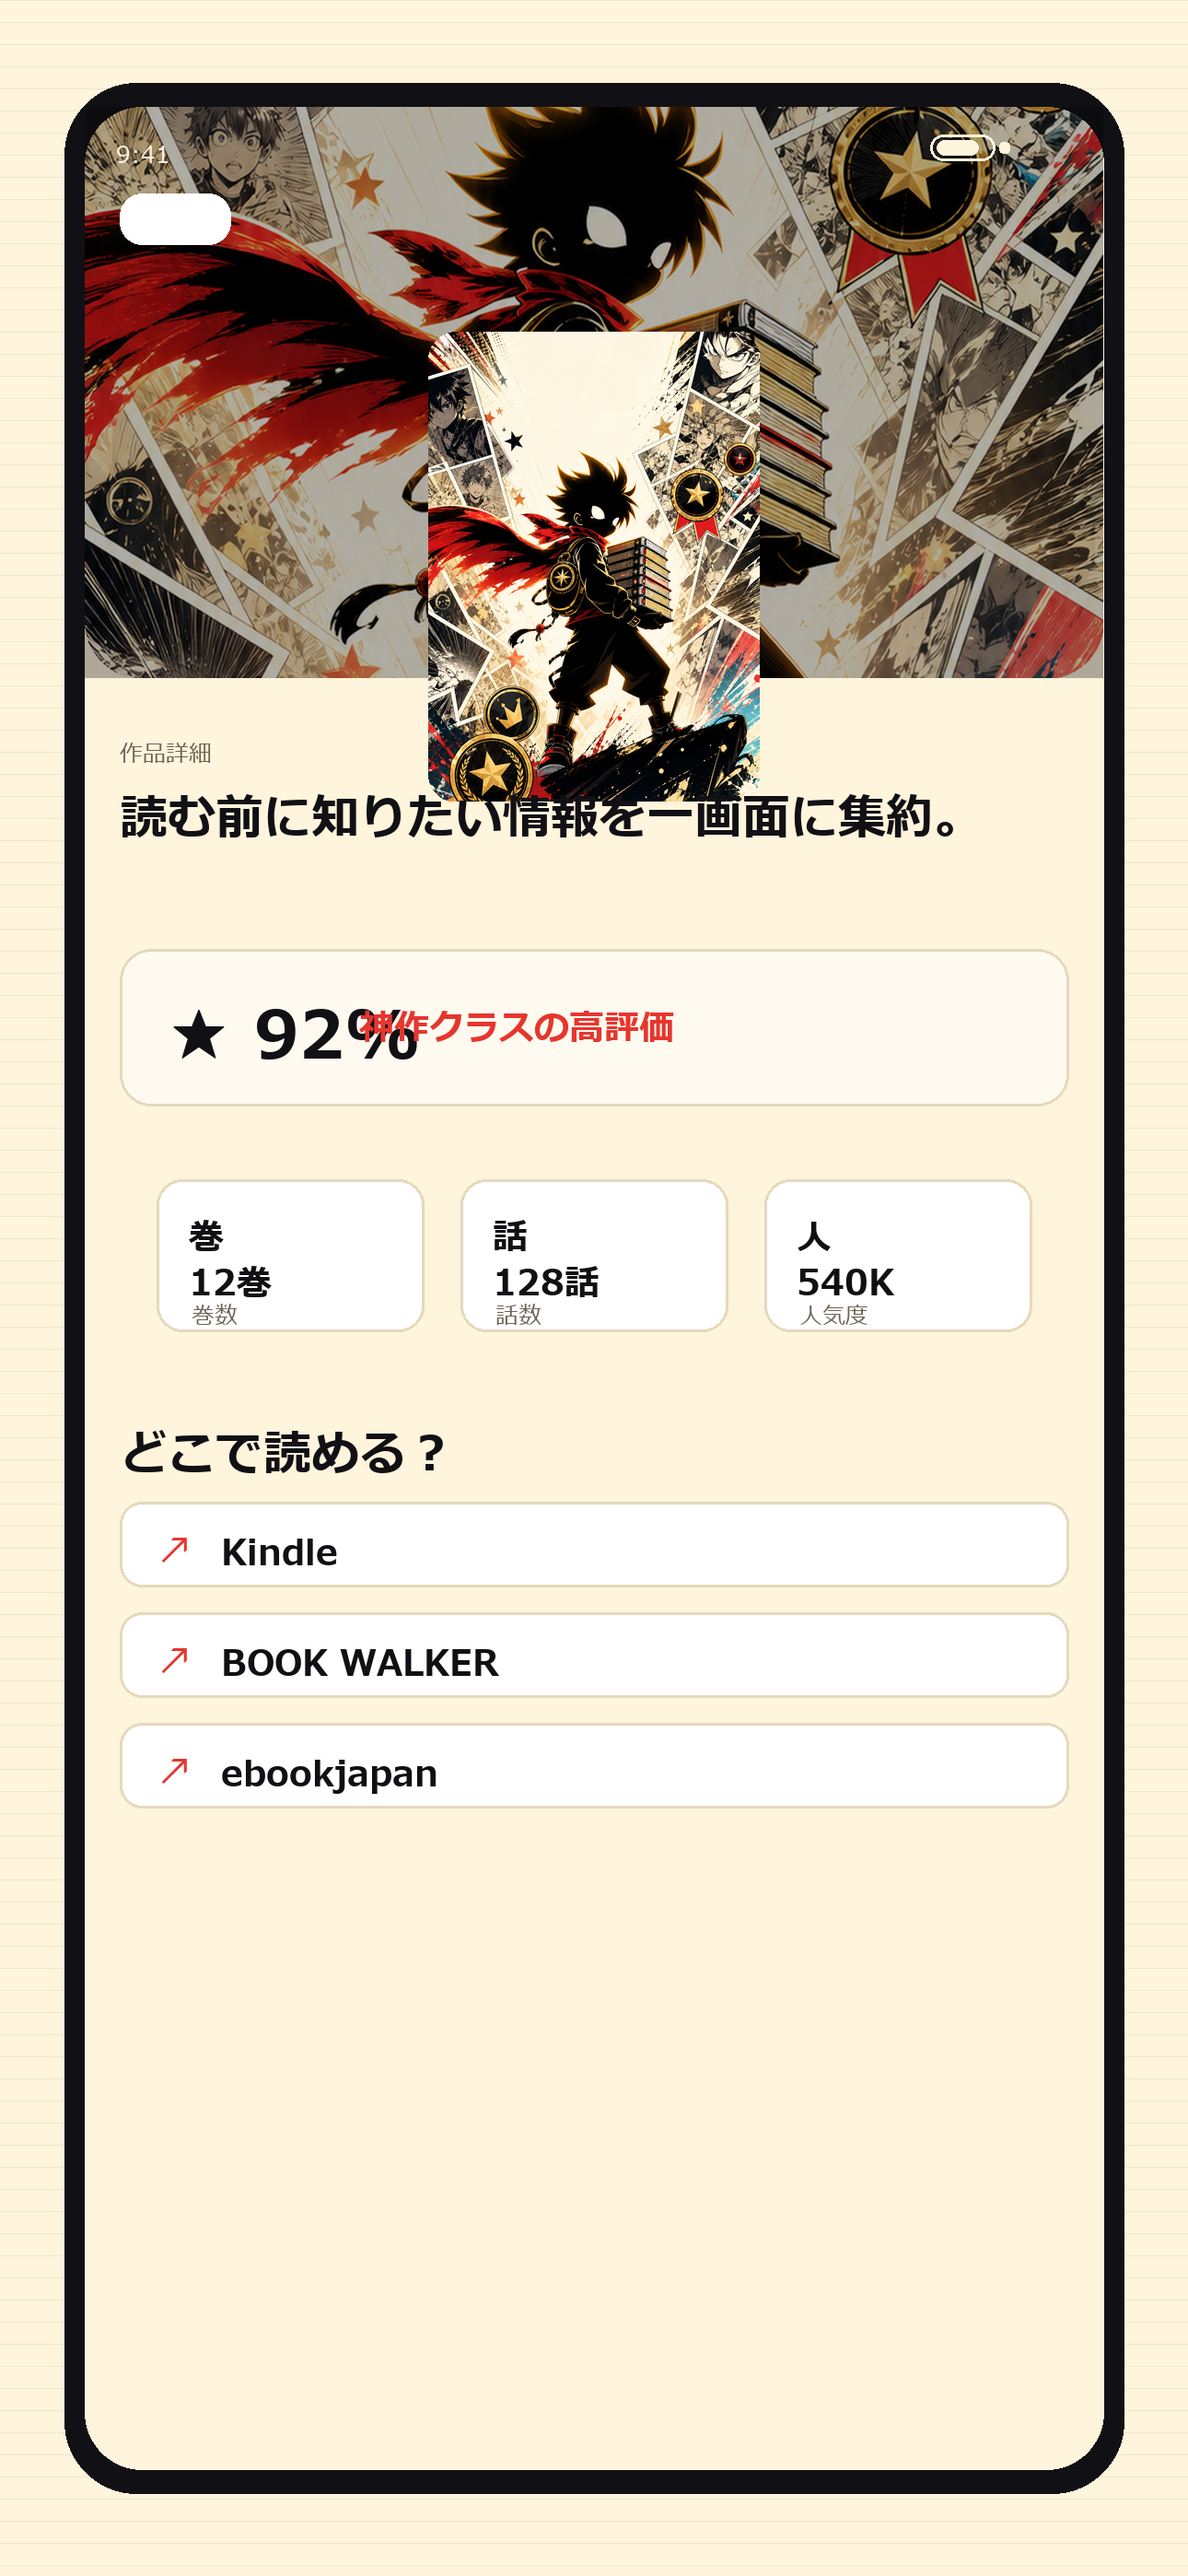
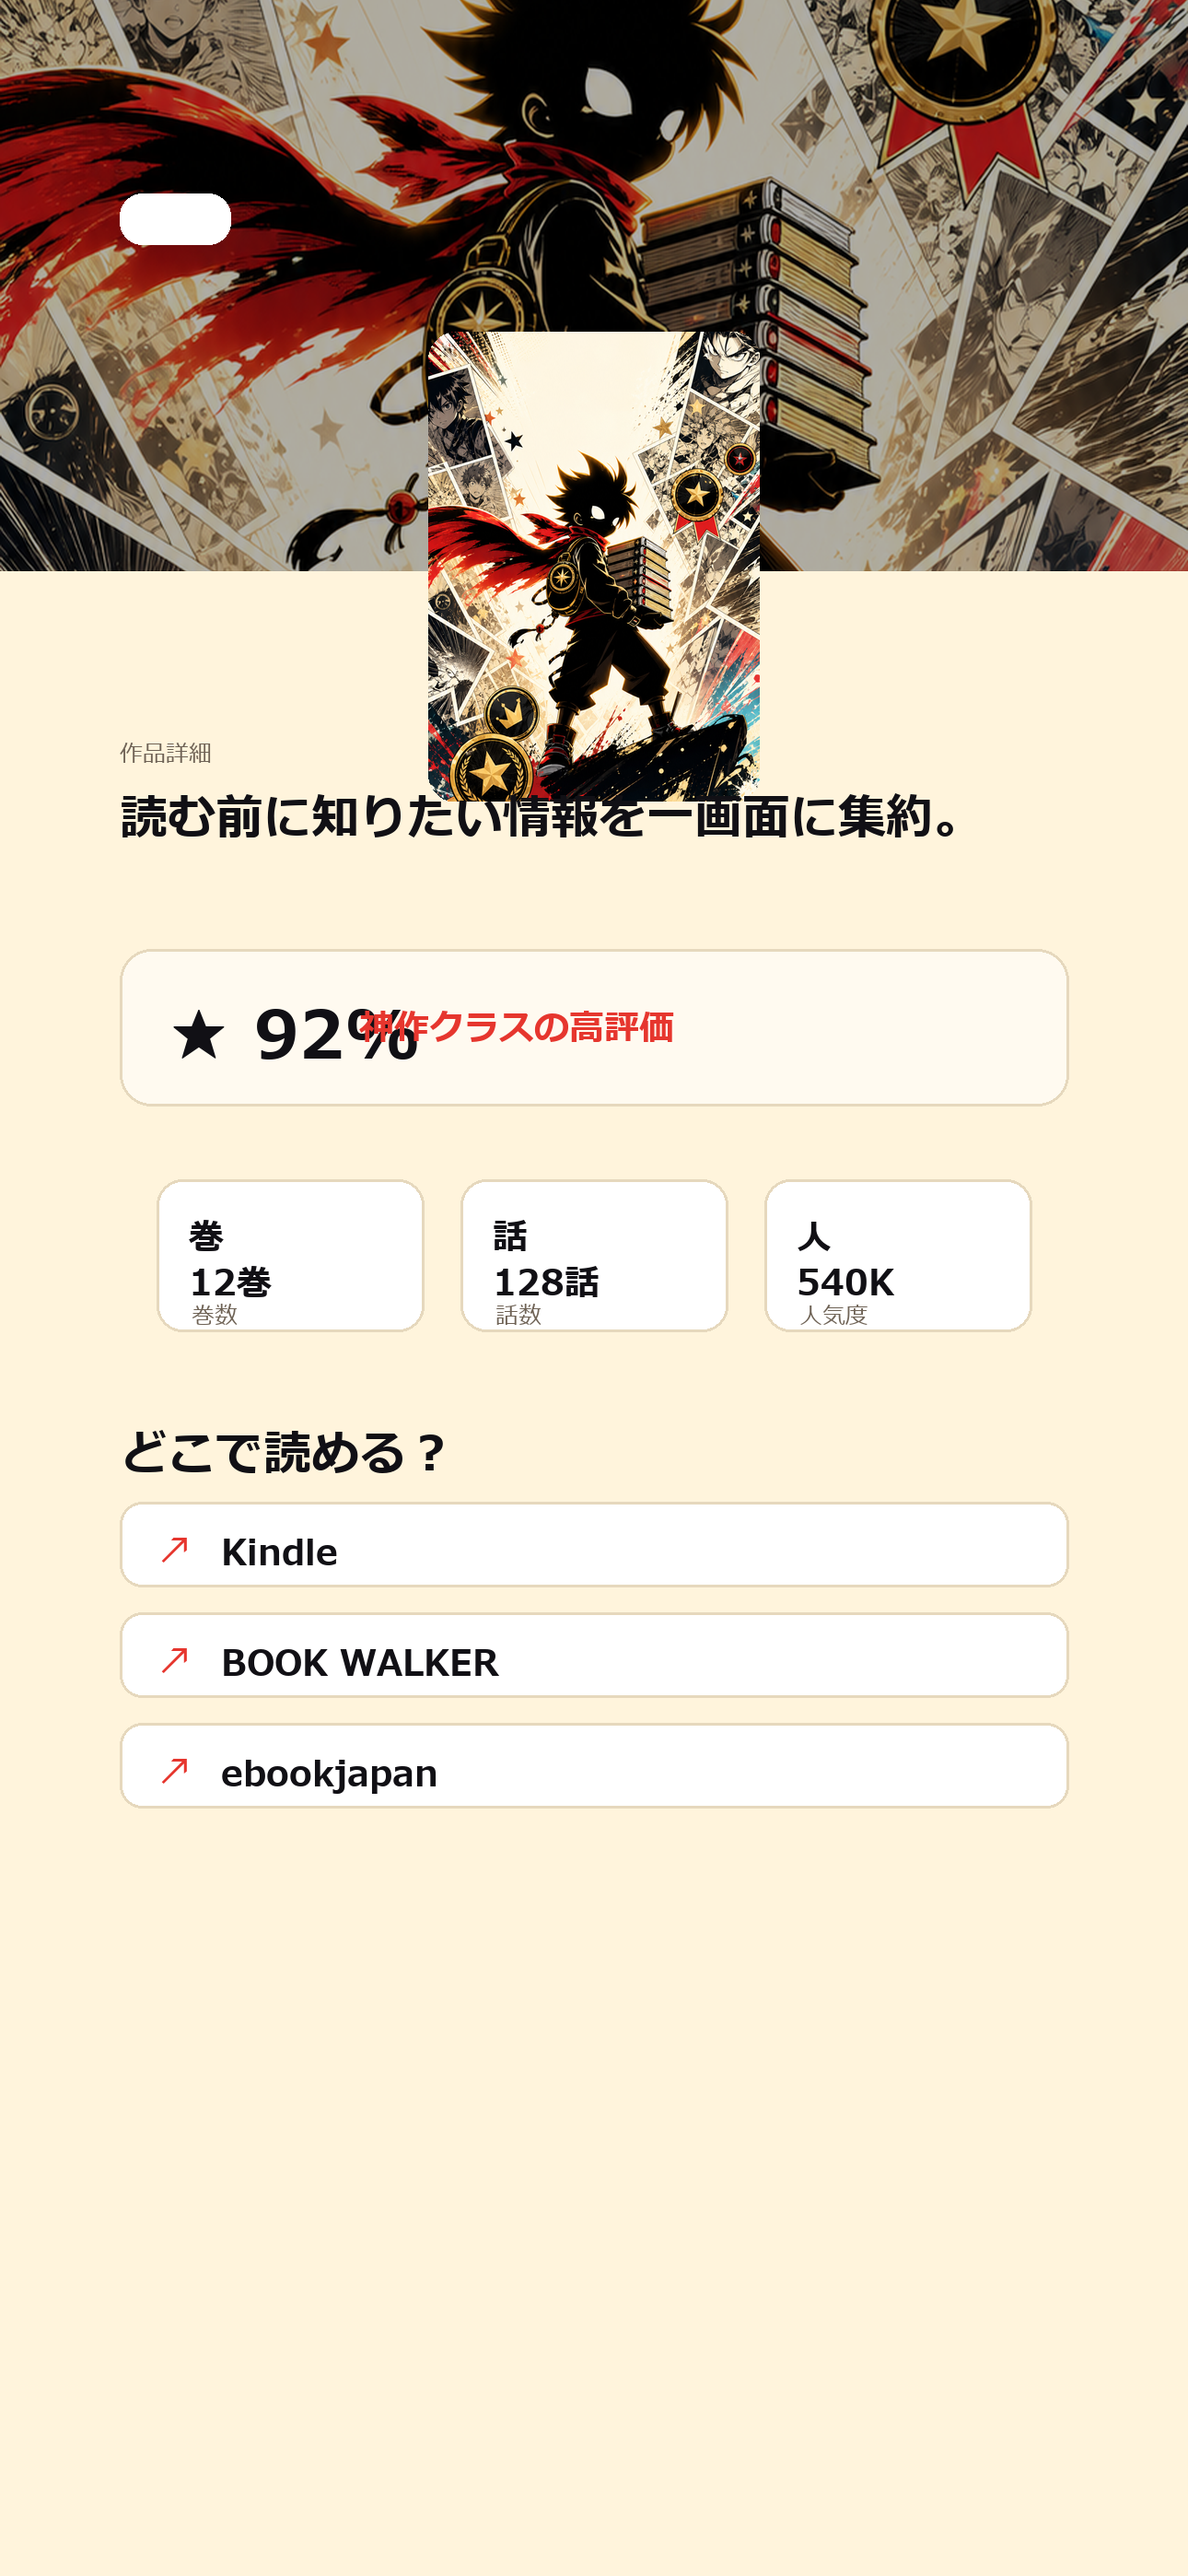
Fix MangaNavi ads tracking and screenshots

Changed region(s): [[0.0, 0.0, 1.0, 0.9957]]

diff --git a/iosApp/iosApp/ContentView.swift b/iosApp/iosApp/ContentView.swift
@@ -14,59 +14,63 @@ private struct MangaNaviHomeView: View {
     private let genres = ["バトル", "ミステリー", "日常", "SF", "恋愛", "歴史"]
 
     var body: some View {
-        TabView(selection: $selectedTab) {
-            NavigationStack {
-                ScrollView(showsIndicators: false) {
-                    VStack(alignment: .leading, spacing: 24) {
-                        HeroPanel(featured: picks[0]) {
-                            selectedManga = picks[0]
-                        }
+        VStack(spacing: 0) {
+            TabView(selection: $selectedTab) {
+                NavigationStack {
+                    ScrollView(showsIndicators: false) {
+                        VStack(alignment: .leading, spacing: 24) {
+                            HeroPanel(featured: picks[0]) {
+                                selectedManga = picks[0]
+                            }
 
-                        SectionHeader(title: "今日の注目作", action: "更新")
+                            SectionHeader(title: "今日の注目作", action: "更新")
 
-                        LazyVGrid(columns: columns, spacing: 14) {
-                            ForEach(picks) { manga in
-                                MangaCard(manga: manga)
-                                    .onTapGesture {
-                                        selectedManga = manga
-                                    }
+                            LazyVGrid(columns: columns, spacing: 14) {
+                                ForEach(picks) { manga in
+                                    MangaCard(manga: manga)
+                                        .onTapGesture {
+                                            selectedManga = manga
+                                        }
+                                }
+                            }
+
+                            SectionHeader(title: "ジャンルから探す", action: nil)
+
+                            LazyVGrid(columns: genreColumns, spacing: 10) {
+                                ForEach(genres, id: \.self) { genre in
+                                    GenreChip(title: genre)
+                                }
                             }
                         }
-
-                        SectionHeader(title: "ジャンルから探す", action: nil)
-
-                        LazyVGrid(columns: genreColumns, spacing: 10) {
-                            ForEach(genres, id: \.self) { genre in
-                                GenreChip(title: genre)
-                            }
-                        }
+                        .padding(.horizontal, 20)
+                        .padding(.top, 14)
+                        .padding(.bottom, 28)
                     }
-                    .padding(.horizontal, 20)
-                    .padding(.top, 14)
-                    .padding(.bottom, 28)
+                    .background(AppPalette.paper.ignoresSafeArea())
+                    .navigationTitle("MangaNavi")
+                    .navigationBarTitleDisplayMode(.inline)
                 }
-                .background(AppPalette.paper.ignoresSafeArea())
-                .navigationTitle("MangaNavi")
-                .navigationBarTitleDisplayMode(.inline)
-            }
-            .tabItem {
-                Label("ホーム", systemImage: "book.pages")
-            }
-            .tag(0)
-
-            RankingView(picks: picks, selectedManga: $selectedManga)
                 .tabItem {
-                    Label("ランキング", systemImage: "chart.bar.fill")
+                    Label("ホーム", systemImage: "book.pages")
                 }
-                .tag(1)
+                .tag(0)
 
-            ReadingListView(picks: picks, selectedManga: $selectedManga)
-                .tabItem {
-                    Label("リスト", systemImage: "bookmark.fill")
-                }
-                .tag(2)
+                RankingView(picks: picks, selectedManga: $selectedManga)
+                    .tabItem {
+                        Label("ランキング", systemImage: "chart.bar.fill")
+                    }
+                    .tag(1)
+
+                ReadingListView(picks: picks, selectedManga: $selectedManga)
+                    .tabItem {
+                        Label("リスト", systemImage: "bookmark.fill")
+                    }
+                    .tag(2)
+            }
+            .tint(AppPalette.ink)
+
+            AdMobBannerSlotView(placement: .homeBottom)
         }
-        .tint(AppPalette.ink)
         .sheet(item: $selectedManga) { manga in
             MangaDetailView(manga: manga)
         }

diff --git a/iosApp/iosApp/AdService.swift b/iosApp/iosApp/AdService.swift
@@ -1,0 +1,110 @@
+import AppTrackingTransparency
+import GoogleMobileAds
+import SwiftUI
+import UIKit
+
+enum AdPlacement {
+    case homeBottom
+}
+
+struct AdConfiguration {
+    static let appID = "ca-app-pub-9404799280370656~8948872604"
+    static let primaryBannerUnitID = "ca-app-pub-9404799280370656/2700982853"
+    static let secondaryBannerUnitID = "ca-app-pub-9404799280370656/5009627599"
+    static let tertiaryBannerUnitID = "ca-app-pub-9404799280370656/6705852641"
+
+    static func bannerUnitID(for placement: AdPlacement) -> String {
+        switch placement {
+        case .homeBottom:
+            primaryBannerUnitID
+        }
+    }
+}
+
+@MainActor
+final class AdService: ObservableObject {
+    static let shared = AdService()
+
+    @Published private(set) var isReady = false
+    private var didStart = false
+
+    private init() {}
+
+    func start() async {
+        guard !didStart else { return }
+        didStart = true
+
+        await requestTrackingAuthorizationIfNeeded()
+        await MobileAds.shared.start()
+        isReady = true
+    }
+
+    private func requestTrackingAuthorizationIfNeeded() async {
+        guard #available(iOS 14.5, *),
+              ATTrackingManager.trackingAuthorizationStatus == .notDetermined else {
+            return
+        }
+
+        _ = await withCheckedContinuation { continuation in
+            ATTrackingManager.requestTrackingAuthorization { status in
+                continuation.resume(returning: status)
+            }
+        }
+    }
+}
+
+struct AdMobBannerSlotView: View {
+    let placement: AdPlacement
+    @EnvironmentObject private var adService: AdService
+
+    var body: some View {
+        if adService.isReady {
+            BannerViewContainer(
+                adSize: AdSizeBanner,
+                adUnitID: AdConfiguration.bannerUnitID(for: placement)
+            )
+            .frame(width: AdSizeBanner.size.width, height: AdSizeBanner.size.height)
+            .frame(maxWidth: .infinity)
+            .padding(.top, 6)
+            .background(AppPalette.paper)
+            .accessibilityLabel("広告")
+        }
+    }
+}
+
+private struct BannerViewContainer: UIViewRepresentable {
+    let adSize: AdSize
+    let adUnitID: String
+
+    func makeUIView(context: Context) -> BannerView {
+        let banner = BannerView(adSize: adSize)
+        banner.adUnitID = adUnitID
+        banner.rootViewController = UIApplication.shared.adRootViewController
+        banner.load(Request())
+        return banner
+    }
+
+    func updateUIView(_ banner: BannerView, context: Context) {
+        if banner.adUnitID != adUnitID {
+            banner.adUnitID = adUnitID
+            banner.load(Request())
+        }
+    }
+}
+
+private extension UIApplication {
+    var adRootViewController: UIViewController? {
+        connectedScenes
+            .compactMap { $0 as? UIWindowScene }
+            .flatMap(\.windows)
+            .first { $0.isKeyWindow }?
+            .rootViewController?
+            .topPresentedViewController
+    }
+}
+
+private extension UIViewController {
+    var topPresentedViewController: UIViewController {
+        presentedViewController?.topPresentedViewController ?? self
+    }
+}

diff --git a/iosApp/iosApp/iosAppApp.swift b/iosApp/iosApp/iosAppApp.swift
@@ -2,9 +2,15 @@ import SwiftUI
 
 @main
 struct MangaNaviApp: App {
+    @StateObject private var adService = AdService.shared
+
     var body: some Scene {
         WindowGroup {
             ContentView()
+                .environmentObject(adService)
+                .task {
+                    await adService.start()
+                }
         }
     }
 }

diff --git a/tools/make_ios_screenshots.py b/tools/make_ios_screenshots.py
@@ -1,7 +1,7 @@
 from pathlib import Path
 from PIL import Image, ImageDraw, ImageFont
 
-ROOT = Path(r"C:\Users\Windows\MangaNavi")
+ROOT = Path(__file__).resolve().parents[1]
 OUT = ROOT / "output" / "ios-screenshots"
 OUT.mkdir(parents=True, exist_ok=True)
 
@@ -68,17 +68,12 @@ def base_bg():
 def phone_shell():
     img = base_bg()
     draw = ImageDraw.Draw(img)
-    rounded(draw, (70, 90, W - 70, H - 90), 78, "#111015")
-    rounded(draw, (92, 116, W - 92, H - 116), 62, "#fff4dc")
+    rounded(draw, (0, 0, W, H), 0, "#fff4dc")
     return img
 
 
 def status(draw, dark=False):
-    color = "#fff4dc" if dark else "#111015"
-    write(draw, (126, 150), "9:41", F["small"], color)
-    rounded(draw, (1010, 146, 1080, 174), 14, None, color, 3)
-    rounded(draw, (1085, 154, 1096, 166), 4, color)
-    rounded(draw, (1017, 152, 1062, 168), 9, color)
+    return
 
 
 def card(draw, box, fill="#ffffff", outline="#e6d8bd", radius=34):
@@ -99,12 +94,12 @@ def cover_tile(img, x, y, rank, title, score, color="#e6362e"):
 def home():
     img = phone_shell()
     draw = ImageDraw.Draw(img)
-    paste_round(img, cover_crop(HERO, (W - 184, 1030)), (92, 116), 62)
-    overlay = Image.new("RGBA", (W - 184, 1030), (0, 0, 0, 0))
+    paste_round(img, cover_crop(HERO, (W, 1030)), (0, 0), 0)
+    overlay = Image.new("RGBA", (W, 1030), (0, 0, 0, 0))
     od = ImageDraw.Draw(overlay)
     for i in range(1030):
         od.line((0, i, W - 184, i), fill=(0, 0, 0, int(20 + 190 * (i / 1030))))
-    img.paste(overlay, (92, 116), overlay)
+    img.paste(overlay, (0, 0), overlay)
     status(draw, True)
     write(draw, (130, 850), "MangaNavi", F["xxl"], "#ffffff")
     write(draw, (134, 965), "読むべき一冊を、ランキングで一瞬で見つける。", F["body"], "#fff4dc")
@@ -134,9 +129,9 @@ def home():
 def ranking():
     img = phone_shell()
     draw = ImageDraw.Draw(img)
-    rounded(draw, (92, 116, W - 92, 560), 62, "#111015")
-    for x in range(90, W - 90, 28):
-        draw.line((x, 116, x + 300, 560), fill="#431a1a", width=5)
+    rounded(draw, (0, 0, W, 560), 0, "#111015")
+    for x in range(0, W, 28):
+        draw.line((x, 0, x + 300, 560), fill="#431a1a", width=5)
     status(draw, True)
     write(draw, (130, 245), "MANGA RANKING", F["small"], "#ffc857")
     write(draw, (130, 310), "読者評価が強い作品", F["xl"], "#ffffff")
@@ -167,9 +162,9 @@ def ranking():
 def detail():
     img = phone_shell()
     draw = ImageDraw.Draw(img)
-    paste_round(img, cover_crop(HERO, (W - 184, 620)), (92, 116), 62)
-    overlay = Image.new("RGBA", (W - 184, 620), (0, 0, 0, 80))
-    img.paste(overlay, (92, 116), overlay)
+    paste_round(img, cover_crop(HERO, (W, 620)), (0, 0), 0)
+    overlay = Image.new("RGBA", (W, 620), (0, 0, 0, 80))
+    img.paste(overlay, (0, 0), overlay)
     status(draw, True)
     rounded(draw, (130, 210, 250, 265), 24, (255, 255, 255, 60))
     write(draw, (158, 222), "戻る", F["small"], "#ffffff")

diff --git a/scripts/upload_screenshots.py b/scripts/upload_screenshots.py
@@ -124,6 +124,17 @@ def delete_existing_screenshots(set_id: str) -> None:
         print(f"Deleted old screenshot {screenshot['id']}")
 
 
+def clear_all_screenshot_sets(localization_id: str) -> None:
+    sets = must(
+        request("GET", f"/appStoreVersionLocalizations/{localization_id}/appScreenshotSets?limit=200"),
+        "Screenshot set lookup failed.",
+    ).get("data", [])
+    for item in sets:
+        display_type = item["attributes"].get("screenshotDisplayType", "unknown")
+        print(f"Clearing old screenshots for {display_type}")
+        delete_existing_screenshots(item["id"])
+
+
 def upload_screenshot(set_id: str, path: Path) -> None:
     data = path.read_bytes()
     checksum = hashlib.md5(data).hexdigest()
@@ -197,6 +208,8 @@ def main() -> None:
         print("No Japanese localization found. Run submit.py once before uploading screenshots.")
         sys.exit(1)
 
+    clear_all_screenshot_sets(localization_id)
+
     device_sets = {
         "APP_IPHONE_67": (1290, 2796),
         "APP_IPHONE_65": (1242, 2688),
@@ -206,7 +219,6 @@ def main() -> None:
         set_screenshots = resized_sources(screenshots, device_type, size)
         print(f"Uploading {len(set_screenshots)} screenshots for {device_type}")
         set_id = get_or_create_screenshot_set(localization_id, device_type)
-        delete_existing_screenshots(set_id)
         for screenshot in set_screenshots:
             upload_screenshot(set_id, screenshot)
     print("Screenshot upload finished.")

diff --git a/scripts/submit.py b/scripts/submit.py
@@ -63,7 +63,11 @@ REVIEW_DETAIL = {
     "demoAccountRequired": False,
     "demoAccountName": "",
     "demoAccountPassword": "",
-    "notes": "No sign-in is required. The app is a simple manga reading-list and recommendation guide.",
+    "notes": (
+        "No sign-in is required. Advertising remains enabled. "
+        "This build shows the App Tracking Transparency permission request on first launch before Google Mobile Ads starts. "
+        "The screenshots were updated to remove non-iOS status bar artwork."
+    ),
 }
 
 
@@ -183,7 +187,7 @@ def update_version_prerequisites(version_id: str) -> None:
         "data": {
             "type": "appStoreVersions",
             "id": version_id,
-            "attributes": {"copyright": COPYRIGHT, "usesIdfa": False},
+            "attributes": {"copyright": COPYRIGHT, "usesIdfa": True},
         }
     }
     response = request("PATCH", f"/appStoreVersions/{version_id}", json=version_payload)
@@ -294,7 +298,7 @@ def update_version_settings(version_id: str) -> None:
             "id": version_id,
             "attributes": {
                 "copyright": "2026 Tokyo Nasu",
-                "usesIdfa": False,
+                "usesIdfa": True,
                 "releaseType": "AFTER_APPROVAL",
             },
         }
